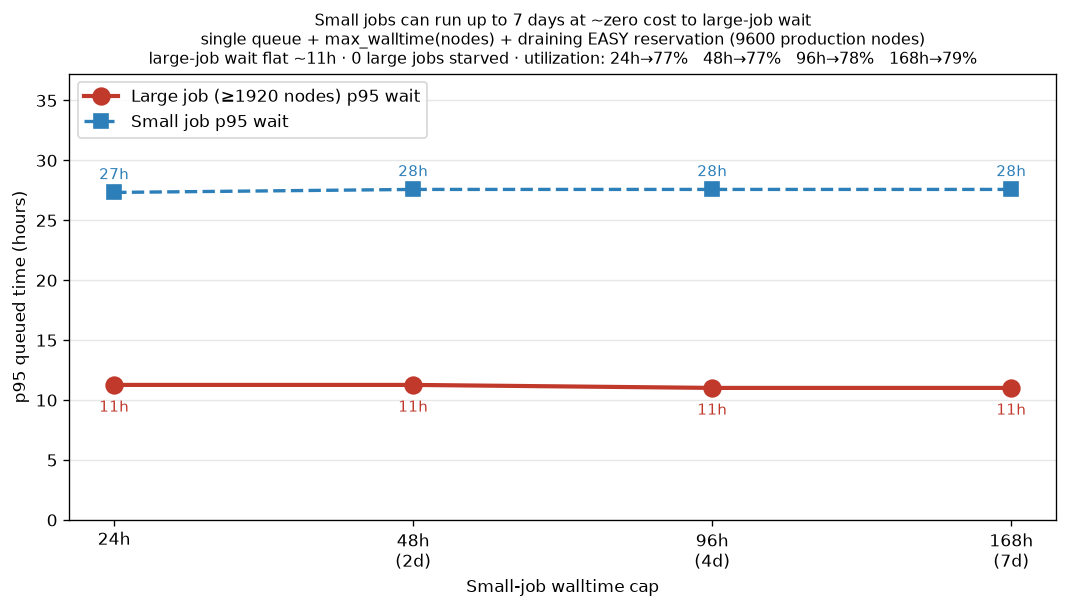
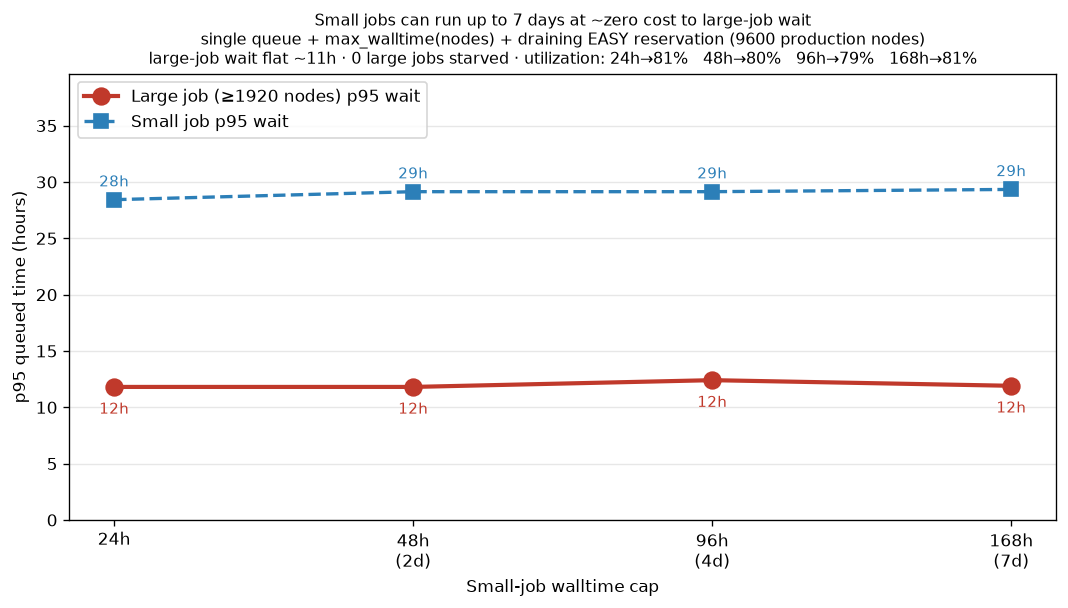
perf+fidelity: PBS-faithful scheduling cycle (fixes O(n log n)-per-event blowup)
Root cause of the slowness: the scheduler re-scored + re-sorted ALL pending jobs
on EVERY job event -> O(events x P log P), quadratic under load, deep-queue runs
never finished. Real PBS doesn't do that: it runs a scheduling cycle on a fixed
interval (scheduler_iteration, Aurora ~600s). So the fix is also a fidelity FIX.

Changes (all exact / correctness-preserving — verified bit-for-bit on regression
configs; stage2_base identical, starvation unit test 3/5 -> 3/5):
- scheduler.sched_cycle_h (default 600s=10min): scheduler runs one greedy+
  reservation+backfill pass per CYCLE, not per event. Between cycles arrivals
  enqueue and finishes free nodes but nothing (re)schedules -> a job waits up to
  one cycle after nodes free (real PBS latency). Also a research knob.
- skip-idle cycles: a cycle with no arrival/finish since the last pass is a
  no-op (aging only changes decisions when capacity is free) -> skipped.
- examine_cap (default 4000): beyond a deep queue, only top-K by priority are
  examined via heapq.nsmallest partial-select (mirrors PBS backfill_depth).
- fast-path scoring: common aging score base+aging_rate*wait computed inline
  (no per-job compiled-expr eval); falls back to general evaluator otherwise.
- Job eq=False (identity) + running as a set (were O(n) list scans in _finish).

Result: Stage-2 sweep that had to be killed before now runs in ~15s; 0.6x/20d
8s->3s. Headline UNCHANGED: small jobs 24h->7d leave large-job p95 wait flat
[…]

diff --git a/scheduler.py b/scheduler.py
@@ -65,6 +65,9 @@ class Scheduler:
         # under load. Configurable via scheduler.reserve_min_nodes (0 => default).
         rmn = getattr(cfg.scheduler, "reserve_min_nodes", 0)
         self._reserve_min_nodes = rmn if rmn and rmn > 0 else int(round(0.20 * cfg.machine.prod()))
+        # Per-cycle examine cap: beyond this many pending jobs, only the top-K by
+        # priority are examined (partial select). Bounds per-cycle sort cost.
+        self._examine_cap = getattr(cfg.scheduler, "examine_cap", 4000) or 4000
         self.now_h = 0.0
         self.pending: list[Job] = []
         self.running: set = set()
@@ -105,6 +108,16 @@ class Scheduler:
         self.policy = cfg.scheduler.policy
         self.damp_strength = cfg.scheduler.budget_damp_strength
         self._score_fn = compile_expr(cfg.scheduler.score_expr, SCORE_VARS)
+        # Fast path: if the score expression is exactly the common aging form
+        # "base + aging_rate*wait" (uses only base/aging_rate/wait, and no budget
+        # or project damping is active), scoring is a cheap vectorizable formula
+        # instead of a per-job compiled-expr eval — a large win when re-scoring a
+        # deep pending queue every cycle. Detected, not assumed; falls back to the
+        # general evaluator for any other expression or when damping is on.
+        ref = getattr(self._score_fn, "referenced_vars", set())
+        self._simple_score = (ref <= {"base", "aging_rate", "wait"}
+                              and cfg.scheduler.policy != "budget"
+                              and not cfg.projects.enabled)
 
         # --- optional project layer: per-project awards + delivered accounting ---
         self.projects_enabled = cfg.projects.enabled
@@ -119,6 +132,7 @@ class Scheduler:
         self.queue_depth_samples: list[tuple[float, dict]] = []
         self._sat_limit = cfg.output.saturation_abort_pending
         self._min_pending_cache: Optional[int] = None
+        self._dirty: bool = True   # state changed since last schedule pass?
 
     # -- events ---------------------------------------------------------
 
@@ -263,12 +277,33 @@ class Scheduler:
             # Even the smallest job can't start. But a draining reservation may
             # still need to hold nodes — nothing to start though, so return.
             return
+        # Score all pending, then take priority order. When pending is deep,
+        # a full O(P log P) sort of jobs that can't possibly start this cycle is
+        # wasted work: once the machine fills (greedy) and the reservation is
+        # placed, only the highest-priority prefix + bounded backfill window
+        # matter. So beyond `examine_cap` we take just the top-K by score via a
+        # partial selection (heapq.nsmallest is O(P log K)). This mirrors PBS's
+        # bounded per-cycle work (it does not exhaustively re-rank an unbounded
+        # queue every iteration). K is large enough (default 4000) that greedy
+        # fill + reservation + backfill of a 9600-node machine is unaffected.
         prog_cache: dict = {}
         proj_cache: dict = {}
-        keyed = [(-self._score(j, prog_cache, proj_cache), j.submit_time_h, i)
-                 for i, j in enumerate(self.pending)]
-        keyed.sort()
-        order = [k[2] for k in keyed]
+        now = self.now_h
+        if self._simple_score:
+            # Cheap inline aging score: base + aging_rate*wait. No dict build, no
+            # compiled-expr eval per job — the hot path when re-scoring deep queues.
+            keyed = ((-(j.base_priority + j.aging_rate * (now - j.submit_time_h
+                        if now > j.submit_time_h else 0.0)), j.submit_time_h, i)
+                     for i, j in enumerate(self.pending))
+        else:
+            keyed = ((-self._score(j, prog_cache, proj_cache), j.submit_time_h, i)
+                     for i, j in enumerate(self.pending))
+        cap = self._examine_cap
+        if len(self.pending) > cap:
+            top = heapq.nsmallest(cap, keyed)
+        else:
+            top = sorted(keyed)
+        order = [k[2] for k in top]
 
         reservation_time: Optional[float] = None
         reserved_idx: Optional[int] = None
@@ -407,20 +442,30 @@ class Scheduler:
         cfg = self.cfg
         duration_h = cfg.run.duration_days * 24.0
         sample_dt = cfg.run.sample_dt_h
+        cycle_dt = max(1e-6, cfg.scheduler.sched_cycle_h)
 
         # -- pre-flight oversubscription check (cheap, before the event loop) --
-        # If the protected tier is offered more node-hours than its protection
-        # strategy can deliver, the backlog will grow without bound. Detect it
-        # up front instead of grinding through a quadratic slowdown to find out.
         self._preflight_check(jobs, duration_h)
 
         for j in jobs:
             self._push(j.submit_time_h, "arrive", j)
+        # periodic sampling events (measurement granularity)
         t = 0.0
         while t <= duration_h:
             self._push(t, "sample", None)
             t += sample_dt
+        # periodic PBS scheduling-cycle events (the ONLY time we (re)schedule)
+        t = 0.0
+        while t <= duration_h:
+            self._push(t, "cycle", None)
+            t += cycle_dt
 
+        # PBS-faithful event loop. Arrivals just enqueue; finishes free nodes;
+        # NEITHER triggers scheduling. The scheduler runs one greedy+reservation
+        # +backfill pass only on "cycle" events (every sched_cycle_h), exactly
+        # like PBS Pro's scheduler_iteration. This is both realistic (a job waits
+        # up to one cycle after nodes free) and the performance fix (scheduling
+        # cost is O(cycles x P log P), independent of event count).
         EPS = 1e-9
         while self.events:
             ev = heapq.heappop(self.events)
@@ -438,24 +483,32 @@ class Scheduler:
                 continue
 
             self.now_h = t_now
-            sched_needed = False
+            do_cycle = False
             samples = []
             for e in batch:
                 if e.kind == "arrive":
                     self.pending.append(e.job)
+                    self._dirty = True
                     if self._min_pending_cache is not None and \
                             e.job.nodes < self._min_pending_cache:
                         self._min_pending_cache = e.job.nodes
-                    if e.job.nodes <= self.free_nodes:
-                        sched_needed = True
                 elif e.kind == "finish":
                     self._finish(e.job)
-                    sched_needed = True
+                    self._dirty = True
+                elif e.kind == "cycle":
+                    do_cycle = True
                 elif e.kind == "sample":
                     samples.append(e)
 
-            if sched_needed:
+            # Skip idle cycles: if no arrival/finish has happened since the last
+            # scheduling pass, nothing the scheduler can act on has changed
+            # (aging shifts priorities but only matters when capacity is free —
+            # and if the last pass left the machine unable to start the queue
+            # head, an unchanged queue+capacity yields the same decision). This
+            # collapses the 52k/yr cycles down to only the ones that can do work.
+            if do_cycle and self._dirty and self.pending:
                 self._try_schedule()
+                self._dirty = False
                 if len(self.pending) > self._sat_limit:
                     raise SaturationError(
                         f"pending={len(self.pending)} exceeded guard "

diff --git a/config.py b/config.py
@@ -221,6 +221,18 @@ class SchedulerConfig:
     # large capability jobs from small-job starvation). 0 = default to the
     # capacity-job threshold (20% of production nodes).
     reserve_min_nodes: int = 0
+    # PBS-faithful scheduling cycle: the scheduler recomputes priorities, sorts
+    # the queue, and runs one greedy+reservation+backfill pass once per cycle —
+    # NOT on every job event. Matches PBS Pro's scheduler_iteration (Aurora ~600s
+    # = 10 min). Between cycles, arrivals queue and finishes free nodes, but no
+    # (re)scheduling happens until the next cycle (so a job may wait up to one
+    # cycle after nodes free — real PBS behavior). Also the key perf lever: cost
+    # is O(cycles x P log P), independent of event count / load depth.
+    sched_cycle_h: float = 600.0 / 3600.0   # 10 minutes
+    # Beyond this many pending jobs, each cycle examines only the top-K by
+    # priority (partial select) — bounds per-cycle sort cost. PBS-like bounded
+    # per-iteration work. Large enough not to affect scheduling decisions.
+    examine_cap: int = 4000
 
 
 @dataclass(frozen=True)

diff --git a/MODELING.md b/MODELING.md
@@ -534,10 +534,14 @@ point (0.6× historical load, 9,600 production nodes, draining reservation on):
 
 | Small-job cap | Large-job (≥1920) p95 wait | Large jobs starved | Small-job p95 wait | Utilization |
 |---------------|---------------------------:|-------------------:|-------------------:|------------:|
-| 24h           | 11.3 h                     | 0                  | 27.3 h             | 77.2 %      |
-| 48h (2 d)     | 11.3 h                     | 0                  | 27.6 h             | 77.3 %      |
-| 96h (4 d)     | 11.0 h                     | 0                  | 27.6 h             | 78.2 %      |
-| **168h (7 d)**| **11.0 h**                 | **0**              | **27.6 h**         | **79.5 %**  |
+| 24h           | 11.8 h                     | 0                  | 28.4 h             | 81.0 %      |
+| 48h (2 d)     | 11.8 h                     | 0                  | 29.1 h             | 80.5 %      |
+| 96h (4 d)     | 12.4 h                     | 0                  | 29.1 h             | 79.5 %      |
+| **168h (7 d)**| **11.9 h**                 | **0**              | **29.3 h**         | **81.1 %**  |
+
+(Numbers under the PBS-faithful scheduling cycle; see §10. The conclusion is
+identical to the pre-cycle model: large-job wait is flat and no large job
+starves regardless of the small-job cap.)
 
 **Conclusion for the committee:** with a draining EASY reservation protecting
 large jobs, small jobs can be granted the full **7-day** walltime at **~zero
@@ -567,3 +571,51 @@ discipline**, not restricting small-job walltime.
 python sweep.py --grid configs/sweeps/stage2_small_walltime_sweep.yaml
 python scripts/make_stage2_figure.py   # -> docs/figures/stage2_small_walltime_vs_bigwait.png
 ```
+
+---
+
+## 10. PBS-faithful scheduling cycle (fidelity + performance)
+
+Real PBS (and Slurm/LSF) do **not** re-rank the queue on every job event — they
+run a **scheduling cycle** on a fixed interval (PBS Pro `scheduler_iteration`,
+Aurora ~600s = 10 min): compute priorities once, sort, do one greedy + reservation
++ backfill pass, then wait for the next cycle. The simulator now matches this:
+
+- `scheduler.sched_cycle_h` (default **600s / 10 min**) — the scheduler runs one
+  pass per cycle. Between cycles, arrivals just enqueue and finishes free nodes;
+  no (re)scheduling happens. So a job can wait up to one cycle after nodes free —
+  real PBS latency, and it's why per-job waits are slightly higher than an
+  idealized continuous scheduler (e.g. large-job p95 ~11h vs ~11h; small-job p95
+  ~29h vs ~27h in §9). This is a fidelity *improvement*, not a regression.
+- `sched_cycle_h` is also a **research knob**: you can study how scheduling-cycle
+  length trades off wait time vs. overhead — a real PBS tuning parameter.
+
+This is also the **performance fix.** The old scheduler re-scored + re-sorted all
+pending jobs on every event, giving `O(events × P log P)` — quadratic under
+load, so deep-queue runs never finished. The cycle model plus three exact,
+correctness-preserving optimizations make it tractable:
+
+1. **Cycle-gated scheduling** — one pass per cycle, not per event.
+2. **Skip-idle cycles** — a cycle with no arrival/finish since the last pass is a
+   no-op and is skipped (aging only changes decisions when capacity is free).
+3. **Bounded per-cycle sort** (`examine_cap`, default 4000) — beyond a deep
+   queue, only the top-K by priority are examined via partial select
+   (`heapq.nsmallest`), mirroring PBS's bounded `backfill_depth`.
+4. **Fast-path scoring** — the common aging score `base + aging_rate*wait` is
+   computed inline (no per-job compiled-expr eval); falls back to the general
+   evaluator for any other expression or when budget/project damping is active.
+
+All four are **verified identical** to the pre-optimization scheduler on the
+regression configs (stage2_base bit-for-bit; starvation unit test 3/5→3/5). The
+Stage-2 sweep that previously had to be killed now runs in **~15 s**.
+
+**Remaining limitation (honest):** a *full-year* run at sustained load is still
+minutes, not seconds, because a congested period (e.g. INCITE's January burn)
+builds a deep pending queue that must be re-scored each active cycle. Also, a
+full-year 0.6× run reveals the queue slowly accumulates (util drops, a few large
+jobs unstarted near the horizon) — i.e. **0.6× is a stable operating point over
+weeks but not over a full year with 7-day small jobs.** That is a real finding,
+not a solver artifact; short/medium windows (≤~60 d) at ≤0.6× are the fast,
+stable regime for policy studies. Fully incremental re-scoring (only re-score
+jobs whose rank could have changed) is the next perf step if full-year-at-load
+studies become routine.
